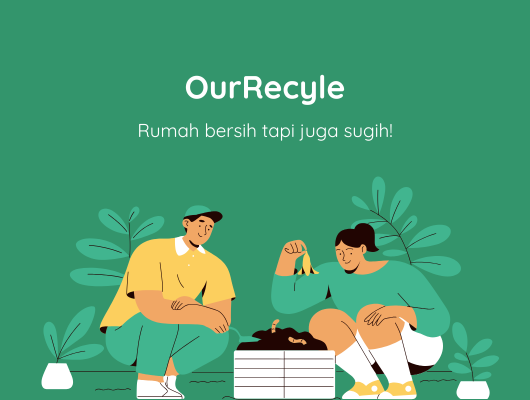
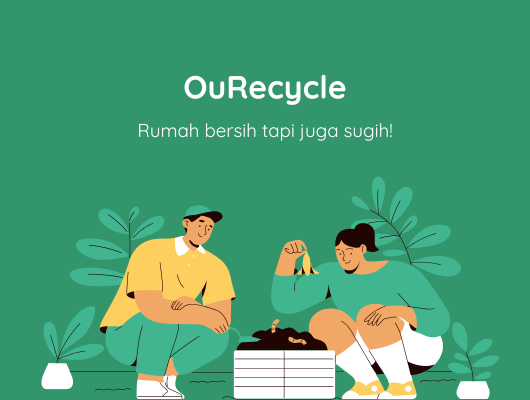
Update footer text, modify links in main.php, and replace images in elektronik.php for improved content accuracy and consistency

Changed region(s): [[0.3321, 0.18, 0.6642, 0.27]]

diff --git a/jenis-sampah/besi-logam.php b/jenis-sampah/besi-logam.php
@@ -9,101 +9,85 @@
         <!-- Link Bootstrap -->
         <link rel="stylesheet" href="../vendor/bootstrap/css/bootstrap.min.css">
         <link href="https://cdn.jsdelivr.net/npm/bootstrap-icons@1.7.2/font/bootstrap-icons.css" rel="stylesheet">
-        <title>Kategori Sampah Jenis Elektronik</title>
+        <title>Kategori Sampah Jenis Besi & Logam</title>
     </head>
 
     <body>
         <?php include "../includes/header.php" ?>
         <main class="container" style="margin-top: 6rem;">
-            <h2 class="text-center mb-4">Kategori Sampah Jenis Elektronik</h2>
+            <h2 class="text-center mb-4">Kategori Sampah Jenis Besi & Logam</h2>
             <div class="row">
                 <!-- Card 1 -->
                 <div class="col-md-3 mb-4">
                     <div class="card">
-                        <img src="../assets/images/elektronik/tv.png" class="card-img-top" alt="Televisi">
+                        <img src="../assets/images/besi-logam/aki.jpg" class="card-img-top" alt="Aki">
                         <div class="card-body">
-                            <h5 class="card-title">Televisi</h5>
+                            <h5 class="card-title">Aki</h5>
                         </div>
                     </div>
                 </div>
                 <!-- Card 2 -->
                 <div class="col-md-3 mb-4">
                     <div class="card">
-                        <img src="../assets/images/elektronik/kulkas.jpeg" class="card-img-top" alt="Kulkas">
+                        <img src="../assets/images/besi-logam/timah.jpg" class="card-img-top" alt="Timah">
                         <div class="card-body">
-                            <h5 class="card-title">Kulkas</h5>
+                            <h5 class="card-title">Timah</h5>
                         </div>
                     </div>
                 </div>
                 <!-- Card 3 -->
                 <div class="col-md-3 mb-4">
                     <div class="card">
-                        <img src="../assets/images/elektronik/komputer.webp" class="card-img-top" alt="Komputer">
+                        <img src="../assets/images/besi-logam/besitipis.png" class="card-img-top" alt="Besi Tipis">
                         <div class="card-body">
-                            <h5 class="card-title">Komputer</h5>
+                            <h5 class="card-title">Besi Tipis</h5>
                         </div>
                     </div>
                 </div>
                 <!-- Card 4 -->
                 <div class="col-md-3 mb-4">
                     <div class="card">
-                        <img src="../assets/images/elektronik/ponsel.jpg" class="card-img-top" alt="Ponsel">
+                        <img src="../assets/images/besi-logam/besitebal.webp" class="card-img-top" alt="Besi Tebal">
                         <div class="card-body">
-                            <h5 class="card-title">Ponsel</h5>
+                            <h5 class="card-title">Besi Tebal</h5>
                         </div>
                     </div>
                 </div>
                 <!-- Card 5 -->
                 <div class="col-md-3 mb-4">
                     <div class="card">
-                        <img src="../assets/images/elektronik/laptop.jpg" class="card-img-top" alt="Laptop">
+                        <img src="../assets/images/besi-logam/kuningan.png" class="card-img-top" alt="Kuningan">
                         <div class="card-body">
-                            <h5 class="card-title">Laptop</h5>
+                            <h5 class="card-title">Kuningan</h5>
                         </div>
                     </div>
                 </div>
                 <!-- Card 6 -->
                 <div class="col-md-3 mb-4">
                     <div class="card">
-                        <img src="../assets/images/elektronik/printer.jpg" class="card-img-top" alt="Printer">
+                        <img src="../assets/images/besi-logam/tembagabiasa.png" class="card-img-top"
+                            alt="Tembaga Biasa">
                         <div class="card-body">
-                            <h5 class="card-title">Printer</h5>
+                            <h5 class="card-title">Tembaga Biasa</h5>
                         </div>
                     </div>
                 </div>
                 <!-- Card 7 -->
                 <div class="col-md-3 mb-4">
                     <div class="card">
-                        <img src="../assets/images/elektronik/baterai.webp" class="card-img-top" alt="Baterai">
+                        <img src="../assets/images/besi-logam/tembagasuper.png" class="card-img-top"
+                            alt="Tembaga Super">
                         <div class="card-body">
-                            <h5 class="card-title">Baterai</h5>
+                            <h5 class="card-title">Tembaga Super</h5>
                         </div>
                     </div>
                 </div>
                 <!-- Card 8 -->
                 <div class="col-md-3 mb-4">
                     <div class="card">
-                        <img src="../assets/images/elektronik/mesincuci.png" class="card-img-top" alt="Mesin Cuci">
+                        <img src="../assets/images/besi-logam/kepalaaki.webp" class="card-img-top" alt="Kepala Aki">
                         <div class="card-body">
-                            <h5 class="card-title">Mesin Cuci</h5>
-                        </div>
-                    </div>
-                </div>
-                <!-- Card 9 -->
-                <div class="col-md-3 mb-4">
-                    <div class="card">
-                        <img src="../assets/images/elektronik/dispenser.jpg" class="card-img-top" alt="Dispenser">
-                        <div class="card-body">
-                            <h5 class="card-title">Dispenser</h5>
-                        </div>
-                    </div>
-                </div>
-                <!-- Card 10 -->
-                <div class="col-md-3 mb-4">
-                    <div class="card">
-                        <img src="../assets/images/elektronik/ac.webp" class="card-img-top" alt="AC">
-                        <div class="card-body">
-                            <h5 class="card-title">AC</h5>
+                            <h5 class="card-title">Kepala Aki</h5>
                         </div>
                     </div>
                 </div>
@@ -114,5 +98,7 @@
         <script src="https://cdn.jsdelivr.net/npm/@popperjs/core@2.9.2/dist/umd/popper.min.js"></script>
         <script src="https://stackpath.bootstrapcdn.com/bootstrap/4.5.2/js/bootstrap.min.js"></script>
     </body>
+
+</html>
 
 </html>

diff --git a/jenis-sampah/botol-kaca.php b/jenis-sampah/botol-kaca.php
@@ -1,0 +1,77 @@
+<!DOCTYPE html>
+<html lang="id">
+
+    <head>
+        <meta charset="UTF-8">
+        <meta name="viewport" content="width=device-width, initial-scale=1.0">
+        <!-- Link Custom CSS -->
+        <link rel="stylesheet" href="../css/styles.css">
+        <!-- Link Bootstrap -->
+        <link rel="stylesheet" href="../vendor/bootstrap/css/bootstrap.min.css">
+        <link href="https://cdn.jsdelivr.net/npm/bootstrap-icons@1.7.2/font/bootstrap-icons.css" rel="stylesheet">
+        <title>Kategori Sampah Jenis Botol Kaca</title>
+    </head>
+
+    <body>
+        <?php include "../includes/header.php" ?>
+        <main class="container" style="margin-top: 6rem;">
+            <h2 class="text-center mb-4">Kategori Sampah Jenis Botol Kaca</h2>
+            <div class="row">
+                <!-- Card 1 -->
+                <div class="col-md-3 mb-4">
+                    <div class="card">
+                        <img src="../assets/images/botol-kaca/botolkecap.png" class="card-img-top" alt="Botol Kecap">
+                        <div class="card-body">
+                            <h5 class="card-title">Botol Kecap</h5>
+                        </div>
+                    </div>
+                </div>
+                <!-- Card 2 -->
+                <div class="col-md-3 mb-4">
+                    <div class="card">
+                        <img src="../assets/images/botol-kaca/botolsaos.webp" class="card-img-top" alt="Botol Saos">
+                        <div class="card-body">
+                            <h5 class="card-title">Botol Saos</h5>
+                        </div>
+                    </div>
+                </div>
+                <!-- Card 3 -->
+                <div class="col-md-3 mb-4">
+                    <div class="card">
+                        <img src="../assets/images/botol-kaca/botolsirup.jpg" class="card-img-top"
+                            alt="Botol Sirup DHT">
+                        <div class="card-body">
+                            <h5 class="card-title">Botol Sirup DHT</h5>
+                        </div>
+                    </div>
+                </div>
+                <!-- Card 4 -->
+                <div class="col-md-3 mb-4">
+                    <div class="card">
+                        <img src="../assets/images/botol-kaca/botolmiras.png" class="card-img-top"
+                            alt="Botol Minuman Keras">
+                        <div class="card-body">
+                            <h5 class="card-title">Botol Miras</h5>
+                        </div>
+                    </div>
+                </div>
+                <!-- Card 5 -->
+                <div class="col-md-3 mb-4">
+                    <div class="card">
+                        <img src="../assets/images/botol-kaca/botolsoda.jpg" class="card-img-top" alt="Botol Soda Kaca">
+                        <div class="card-body">
+                            <h5 class="card-title">Botol Soda</h5>
+                        </div>
+                    </div>
+                </div>
+            </div>
+        </main>
+
+        <script src="https://code.jquery.com/jquery-3.5.1.slim.min.js"></script>
+        <script src="https://cdn.jsdelivr.net/npm/@popperjs/core@2.9.2/dist/umd/popper.min.js"></script>
+        <script src="https://stackpath.bootstrapcdn.com/bootstrap/4.5.2/js/bootstrap.min.js"></script>
+    </body>
+
+</html>
+
+</html>

diff --git a/includes/main.php b/includes/main.php
@@ -172,7 +172,7 @@
                     </a>
                 </div>
                 <div class="col-md-4 mb-4">
-                    <a href="botol-kaca.html" class="card text-center text-decoration-none text-reset">
+                    <a href="jenis-sampah/botol-kaca.php" class="card text-center text-decoration-none text-reset">
                         <div class="card-body">
                             <i class="fas fa-glass-whiskey fa-3x text-danger"></i>
                             <h5 class="card-title mt-3">Botol Kaca</h5>
@@ -180,7 +180,7 @@
                     </a>
                 </div>
                 <div class="col-md-4 mb-4">
-                    <a href="besi-logam.html" class="card text-center text-decoration-none text-reset">
+                    <a href="jenis-sampah/besi-logam.php" class="card text-center text-decoration-none text-reset">
                         <div class="card-body">
                             <i class="fas fa-tools fa-3x text-danger"></i>
                             <h5 class="card-title mt-3">Besi & Logam</h5>
@@ -188,10 +188,10 @@
                     </a>
                 </div>
                 <div class="col-md-4 mb-4">
-                    <a href="khusus.html" class="card text-center text-decoration-none">
+                    <a href="jenis-sampah/organik.php" class="card text-center text-decoration-none">
                         <div class="card-body">
                             <i class="fas fa-leaf fa-3x text-brown"></i>
-                            <h5 class="card-title mt-3">Khusus</h5>
+                            <h5 class="card-title mt-3">Organik</h5>
                         </div>
                     </a>
                 </div>

diff --git a/jenis-sampah/organik.php b/jenis-sampah/organik.php
@@ -1,0 +1,39 @@
+<!DOCTYPE html>
+<html lang="id">
+
+    <head>
+        <meta charset="UTF-8">
+        <meta name="viewport" content="width=device-width, initial-scale=1.0">
+        <!-- Link Custom CSS -->
+        <link rel="stylesheet" href="../css/styles.css">
+        <!-- Link Bootstrap -->
+        <link rel="stylesheet" href="../vendor/bootstrap/css/bootstrap.min.css">
+        <link href="https://cdn.jsdelivr.net/npm/bootstrap-icons@1.7.2/font/bootstrap-icons.css" rel="stylesheet">
+        <title>Kategori Sampah Jenis Organik</title>
+    </head>
+
+    <body>
+        <?php include "../includes/header.php" ?>
+        <main class="container" style="margin-top: 6rem;">
+            <h2 class="text-center mb-4">Kategori Sampah Jenis Organik</h2>
+            <div class="row">
+                <!-- Card 1 -->
+                <div class="col-md-3 mb-4">
+                    <div class="card">
+                        <img src="../assets/images/organik/jelantah.png" class="card-img-top" alt="Aki">
+                        <div class="card-body">
+                            <h5 class="card-title">Minyak Jelantah</h5>
+                        </div>
+                    </div>
+                </div>
+            </div>
+        </main>
+
+        <script src="https://code.jquery.com/jquery-3.5.1.slim.min.js"></script>
+        <script src="https://cdn.jsdelivr.net/npm/@popperjs/core@2.9.2/dist/umd/popper.min.js"></script>
+        <script src="https://stackpath.bootstrapcdn.com/bootstrap/4.5.2/js/bootstrap.min.js"></script>
+    </body>
+
+</html>
+
+</html>

diff --git a/includes/footer.php b/includes/footer.php
@@ -3,7 +3,7 @@
             <div class="container py-4">
                 <div class="row">
                     <div class="col-md-6">
-                        <h3>Contact Me</h3>
+                        <h3>Contact Us</h3>
                         <p>Email: <a href="mailto:info@ourecycle.com" class="text-white">info@ourecycle.com</a></p>
                         <p>Phone: <a href="tel:+628976343725" class="text-white">+62 897-6343-725</a></p>
                     </div>
@@ -27,7 +27,7 @@
                 </div>
                 <hr class="bg-white">
                 <div class="text-center">
-                    <p>© 2023 Ourecycle. All rights reserved.</p>
+                    <p>©2025 OuRecycle. All rights reserved.</p>
                 </div>
             </div>
         </footer>
